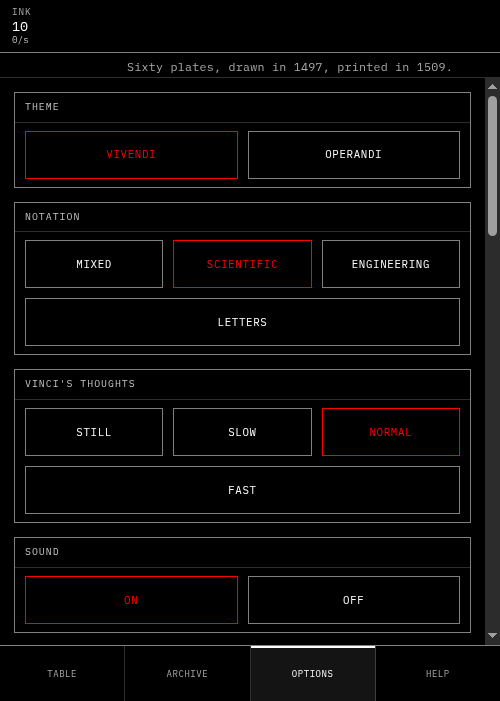
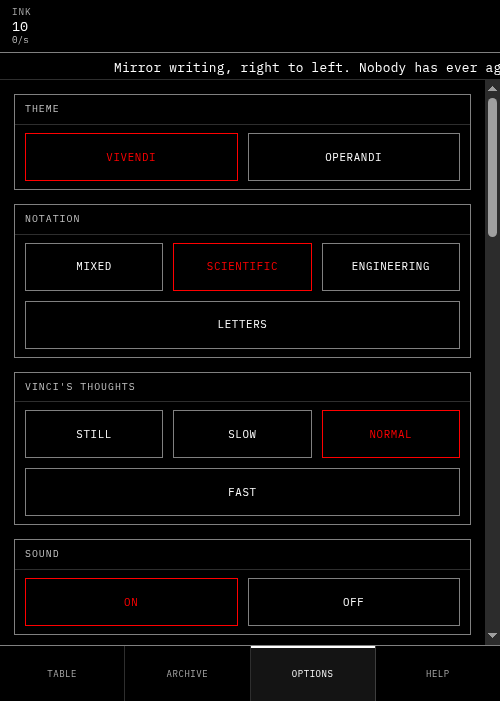
Give the desktop its screen back
The desktop row override never grew a column for the face, so the number
was auto-placed at the end of the row: six pixels wide, sitting under the
buy button. That is the wrong-position bug in the screenshot. The layout
suite asserts the ordering now, because it is invisible at a glance.

The content column was 1180px, which left a wide screen a third empty on
either side. For rows of numbers that buys nothing, so it is 1720 now.
Roll rate moves from a full width band above the table into the right
column beside it, where it costs no height at all.

The action bar took a trailing filler row on desktop, which handed it a
184px band to hold one row of 44px buttons and left the pane 490px of a
757px window. It sits at the bottom now, as it does on a phone, the pane
takes the slack, and the chain rows share it, capped at 4.6rem so one row
early on does not become a 600px slab. Content went from 352px to 566px
of a 605px pane. Mobile measures identically before and after.

Vinci's Thoughts runs from the nav to the window edge at 0.95rem in pure
--fg. It was 0.78rem in --fg-muted, which is #aaa, and a moving line at
low contrast is one you give up on.

The face column no longer empties when the dice turn too fast to read. It
shows that die's average instead, which is what a run of rolls that fast
actually pays.

And rollFace takes a bias now: a uniform draw raised to the power 1-bias,
so 0 is a fair die and 1 always lands on the maximum. meanFace predicts
[…]

diff --git a/src/styles/game.css b/src/styles/game.css
@@ -604,8 +604,10 @@
   overflow: hidden;
   padding: 6px 0;
   border-bottom: 1px solid var(--border-faint);
-  color: var(--fg-muted);
-  font-size: 0.78rem;
+  /* Pure white on black, pure black on white. It was --fg-muted, which is
+     #aaa, and a moving line at low contrast is one you give up on. */
+  color: var(--fg);
+  font-size: 0.85rem;
   line-height: 1.4;
   letter-spacing: 0.02em;
   height: 2.1em;
@@ -760,17 +762,24 @@
 @media (min-width: 820px) {
   .app {
     grid-template-columns: var(--nav-w) minmax(0, 1fr);
-    /* A trailing filler row takes the slack, so the action bar follows the
-       content instead of being flung to the bottom of a tall window. */
-    grid-template-rows: auto auto auto minmax(0, 1fr);
+    /* The pane takes the slack and the action bar sits under it, as it does on
+       a phone. A trailing filler row used to take it instead, which handed the
+       action bar a 184px band to hold one row of 44px buttons and left the
+       pane 490px of a 757px window. */
+    grid-template-rows: auto auto minmax(0, 1fr) auto;
   }
 
   .thought {
     grid-column: 1 / -1;
     grid-row: 2;
-    /* The line is absolutely positioned inside, so the clear for the nav has
-       to be a margin on the clip box, not padding inside it. */
-    margin-left: calc(var(--nav-w) + var(--gap) * 1.4);
+    /* Up against the nav and out to the window edge. The line is absolutely
+       positioned inside, so clearing the nav has to be a margin on the clip
+       box, not padding inside it, or the text vanishes before it gets there.
+       Deliberately not held to the content column: a line of prose crawling
+       past has nothing to line up with, and the wider the run the longer you
+       have to read it. */
+    margin-left: var(--nav-w);
+    font-size: 0.95rem;
   }
 
   .bar {
@@ -811,9 +820,12 @@
   .pane {
     grid-column: 2;
     grid-row: 3;
-    padding: var(--gap) calc(var(--gap) * 1.4);
-    /* Sized to its content, and only scrolls once it runs out of window. */
-    max-height: calc(100dvh - var(--bar-h) - 74px);
+    /* Even on all four sides. It was 14 top and bottom against 20 left and
+       right, which is a frame that does not look like one. */
+    padding: calc(var(--gap) * 1.4);
+    /* The grid row sizes it now, so it fills the window and scrolls only when
+       the content is genuinely taller. */
+    min-height: 0;
   }
 
   .toast {
@@ -823,6 +835,7 @@
   .action-bar {
     grid-column: 2;
     grid-row: 4;
+    align-self: end;
     padding: 0 calc(var(--gap) * 1.4) var(--gap);
     /* The rule belongs to the content column. Spanning the window drew a line
        across the empty space below and made a tidy gap look like a mistake. */
@@ -837,10 +850,46 @@
   /* One column width shared by the bar, the panes and the action bar, so the
      ink readout, the content and MAX all line up instead of drifting to
      opposite edges of a wide screen. */
-  .pane-inner,
+  /* The pane's height has to reach the table, or stretching the rows into it
+     stretches into nothing. Sections in every other pane keep the default
+     flex: 0 1 auto, so they still stack from the top and do not smear
+     themselves down a tall window. */
+  .pane {
+    display: flex;
+    flex-direction: column;
+  }
+
+  .pane-inner {
+    max-width: var(--col-w);
+    margin: 0 auto;
+    display: flex;
+    flex-direction: column;
+    flex: 1 1 auto;
+    min-height: 0;
+    width: 100%;
+  }
+
+  .table-grid {
+    flex: 1 1 auto;
+    min-height: 0;
+  }
+
   .action-bar-inner {
     max-width: var(--col-w);
     margin: 0 auto;
+  }
+
+  /* Centred as one cluster rather than pushed to the edges. Spread across a
+     1700px row with ROLL hidden, S and M ended up a screen apart with nothing
+     between them. On a phone it still spans the full width, where the point is
+     that the two resets and MAX do not share a thumb's landing area. */
+  .action-group {
+    justify-content: center;
+    gap: 10px;
+  }
+
+  .bar-roll {
+    flex: 0 1 420px;
   }
 
   .bar-inner {
@@ -848,11 +897,48 @@
     margin: 0 auto;
   }
 
+  /* The chain down the left, everything that acts on it down the right. The
+     chain spans both rows so the two columns finish level instead of the
+     shorter one leaving a step. */
   .table-grid {
     display: grid;
     grid-template-columns: minmax(0, 1.7fr) minmax(0, 1fr);
+    grid-template-areas:
+      'chain roll'
+      'chain controls';
+    grid-template-rows: auto minmax(0, 1fr);
     gap: var(--gap);
     align-items: start;
+  }
+
+  /* The chain takes the height it is given and the rows share it, up to a
+     limit. Six of nine rows left a 250px band of nothing between the table and
+     the action bar; letting them breathe closes most of it, and the cap stops
+     one row becoming a 600px slab early on. */
+  .table-chain {
+    grid-area: chain;
+    align-self: stretch;
+    display: flex;
+    flex-direction: column;
+    min-height: 0;
+  }
+
+  .table-chain > .section-head {
+    flex: 0 0 auto;
+  }
+
+  .table-chain > .solid {
+    flex: 1 1 auto;
+    min-height: 3.2rem;
+    max-height: 4.6rem;
+  }
+
+  .table-roll {
+    grid-area: roll;
+  }
+
+  .table-controls {
+    grid-area: controls;
   }
 
   .table-controls {
@@ -867,8 +953,8 @@
      so the name, the rates and the amount line up down the whole table, at a
      row height that fits nine of them on a laptop without scrolling. */
   .solid {
-    grid-template-columns: 40px minmax(0, 1fr) minmax(0, 1.2fr) auto auto;
-    grid-template-areas: 'icon name rate amount buy';
+    grid-template-columns: 26px 40px minmax(0, 1fr) minmax(0, 1.2fr) auto auto;
+    grid-template-areas: 'face icon name rate amount buy';
     align-items: center;
     gap: 14px;
     padding: 6px 14px;

diff --git a/src/game/production.ts b/src/game/production.ts
@@ -312,13 +312,57 @@ export function faceFactor(face: number, faces: number): number {
   return face || meanFace(faces)
 }
 
-/** What a die pays on average, which is what a batch of rolls converges to. */
-export function meanFace(faces: number): number {
-  return (faces + 1) / 2
+/**
+ * What a die pays on average, which is what a batch of rolls converges to and
+ * what the table shows once the dice are turning too fast to read.
+ *
+ * At b = 0 this is the (N+1)/2 every schoolchild knows. Above it, the chance
+ * of landing on face k is (k/N)^p minus ((k-1)/N)^p with p = 1/(1-b), and the
+ * mean is that summed against k. Seventy-two terms at worst, and it is only
+ * called when the bias or the die changes.
+ */
+export function meanFace(faces: number, bias = 0): number {
+  if (bias <= 0) return (faces + 1) / 2
+  if (bias >= 1) return faces
+  const key = `${faces}:${bias}`
+  const held = meanCache.get(key)
+  if (held !== undefined) return held
+  const p = 1 / (1 - bias)
+  let sum = 0
+  let below = 0
+  for (let k = 1; k <= faces; k++) {
+    const upTo = Math.pow(k / faces, p)
+    sum += k * (upTo - below)
+    below = upTo
+  }
+  meanCache.set(key, sum)
+  return sum
 }
 
-function rollFace(faces: number): number {
-  return 1 + Math.floor(Math.random() * faces)
+const meanCache = new Map<string, number>()
+
+/**
+ * How far the dice are loaded, 0 to 1. Zero is a fair die. One always lands on
+ * its highest face.
+ *
+ * Nothing moves this yet. It is here because the upgrade that does is coming,
+ * and a fair die is just the b = 0 case of a loaded one, so the two do not
+ * need separate code paths.
+ */
+export function faceBias(_s: GameState): number {
+  return 0
+}
+
+/**
+ * A uniform draw pushed towards the top by raising it to a power. At b = 0 the
+ * exponent is 1 and every face is equally likely; as b approaches 1 the
+ * exponent goes to zero, the draw is pinned at the top of the range, and the
+ * die always shows its maximum.
+ */
+export function rollFace(faces: number, bias = 0): number {
+  if (bias >= 1) return faces
+  const u = Math.pow(Math.random(), 1 - bias)
+  return Math.min(faces, 1 + Math.floor(u * faces))
 }
 
 /** Seconds one roll takes. The dice spin for exactly this long. */
@@ -426,7 +470,7 @@ function resolveOneRoll(s: GameState): void {
       factors.push(0)
       continue
     }
-    const face = rollFace(SOLIDS[i].faces)
+    const face = rollFace(SOLIDS[i].faces, faceBias(s))
     s.faces[i] = face
     factors.push(faceFactor(face, SOLIDS[i].faces))
   }
@@ -440,12 +484,13 @@ function resolveOneRoll(s: GameState): void {
  */
 function resolveManyRolls(s: GameState, count: number): void {
   for (let i = 0; i < s.solids.length; i++) {
-    s.faces[i] = rolls(s, i) ? rollFace(SOLIDS[i].faces) : 0
+    s.faces[i] = rolls(s, i) ? rollFace(SOLIDS[i].faces, faceBias(s)) : 0
   }
   // The mean, per die, not a flat one. A d72 averages 36.5 and a d4 averages
   // 2.5, so a flat factor here would make the automator pay a fraction of what
   // the same rolls pay by hand.
-  produce(s, count, s.solids.map((_, i) => (rolls(s, i) ? meanFace(SOLIDS[i].faces) : 0)))
+  const bias = faceBias(s)
+  produce(s, count, s.solids.map((_, i) => (rolls(s, i) ? meanFace(SOLIDS[i].faces, bias) : 0)))
 }
 
 function applyRolls(s: GameState, count: number): void {
@@ -489,7 +534,7 @@ export function buyAutomator(s: GameState): boolean {
 export function inkPerSecond(s: GameState): Decimal {
   return s.solids[0].amount
     .times(solidMultiplier(s, 1))
-    .times(meanFace(SOLIDS[0].faces))
+    .times(meanFace(SOLIDS[0].faces, faceBias(s)))
     .times(rollRate(s))
 }
 

diff --git a/src/ui/table.ts b/src/ui/table.ts
@@ -23,6 +23,7 @@ import {
   rolling,
   mustWager,
   meanFace,
+  faceBias,
   FACE_READABLE_S,
 } from '../game/production'
 import { format, formatWhole } from '../format'
@@ -183,7 +184,7 @@ export function tablePane(): Pane {
         rows.push({ root: r, icon, face, mult, step, bar, barCan, amount, rate: flow, buy, buyLabel })
       }
 
-      const roll = el('div', 'section')
+      const roll = el('div', 'section table-roll')
       const rh = el('div', 'section-head')
       rh.appendChild(el('span', 'grow', 'ROLL RATE'))
       rollLine = el('span', 'num dim', '')
@@ -244,15 +245,15 @@ export function tablePane(): Pane {
       resetRow.append(folioBtn, studyBtn)
       resets.appendChild(resetRow)
 
-      // Wide screens put the chain and its controls side by side. Stacked, the
-      // controls left most of a desktop empty and pushed the chain off centre.
+      // One container for all three, so the same DOM reads as a stack on a
+      // phone and as two columns on a desktop. Roll rate was a full width band
+      // above the table, which on a wide screen pushed everything down for a
+      // single line of text; beside the chain it costs no height at all.
       const grid = el('div', 'table-grid')
-      // Roll rate multiplies the whole chain, so it sits above the chain
-      // rather than beside it.
       const controls = el('div', 'table-controls')
       controls.append(autoSection, resets)
-      grid.append(chain, controls)
-      root.append(roll, grid)
+      grid.append(roll, chain, controls)
+      root.append(grid)
 
       // Same actions from the keyboard, held or tapped. Digits are read from
       // the physical key so shift+1 still means the first solid.
@@ -355,8 +356,17 @@ export function tablePane(): Pane {
         // solid does not tumble and announce a number that pays nothing.
         const rolling = st.amount.gt(0)
         setDieRolling(r.icon, rolling)
-        const face = readable && rolling ? s.faces[def.idx - 1] : 0
-        setText(r.face, face ? String(face) : '')
+        // Slow enough to read, and it is the face this die landed on. Faster
+        // than that, the digit was blanked, so the column emptied exactly when
+        // the table got interesting. It holds the die's average instead, which
+        // is what a run of rolls that fast actually pays.
+        if (!rolling) setText(r.face, '')
+        else if (readable) {
+          const face = s.faces[def.idx - 1]
+          setText(r.face, face ? String(face) : '')
+        } else {
+          setText(r.face, meanFace(def.faces, faceBias(s)).toFixed(1))
+        }
 
         // Averaged over the faces, because that is what the row actually
         // pays over any run of rolls.

diff --git a/src/styles/tokens.css b/src/styles/tokens.css
@@ -5,7 +5,11 @@
 :root {
   /* The shared content width on desktop. The top bar, the panes and the
      action bar all line up on it. */
-  --col-w: 1180px;
+  /* The shared content column. 1180 left a wide screen with a third of itself
+     empty on either side, which for rows of numbers buys nothing: there is no
+     line of prose here that gets harder to read as it gets longer. High enough
+     now that only a very large display sees a margin at all. */
+  --col-w: 1720px;
   --nav-w: 232px;
   --gap: 14px;
   --bar-h: 52px;

diff --git a/src/main.ts b/src/main.ts
@@ -14,6 +14,8 @@ import {
   buyStudy,
   inkPerSecond,
   maxAll,
+  meanFace,
+  rollFace as __rollFace,
   rollInterval,
   tick,
 } from './game/production'
@@ -455,6 +457,10 @@ const hook: Record<string, unknown> = {
   get rollInterval() {
     return rollInterval(state)
   },
+  // Exposed so the die-loading maths can be checked against samples rather
+  // than trusted. Pure functions; neither touches the save.
+  rollFace: __rollFace,
+  meanFace,
   channel: __CHANNEL__,
   version: __VERSION__,
   buildId: __BUILD_ID__,
